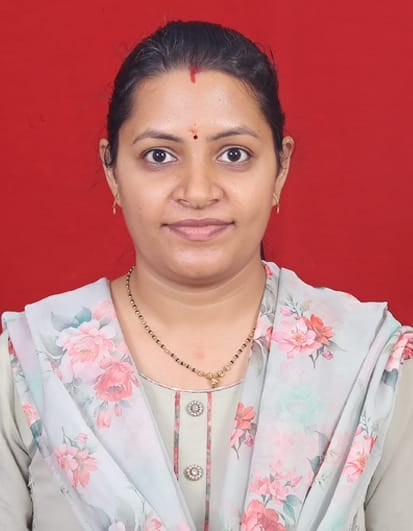
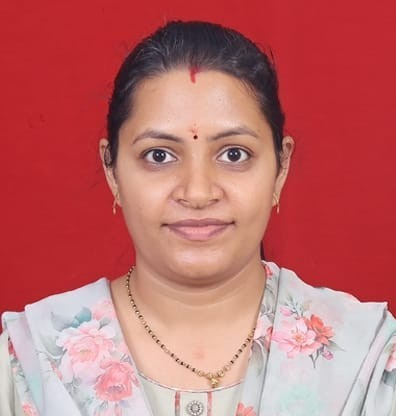
a

diff --git a/HTML/team_members.html b/HTML/team_members.html
@@ -146,37 +146,7 @@
                     <i class="fab fa-linkedin-in"></i>
                 </a>
               </div>
-        <div class="team-member">
-          <div class="member-img"><img src="../Zulqarnain Ahmed.png" alt="Zulqarnain Ahmed"></div>
-          <div class="member-name">Zulqarnain Ahmed</div>
-          <div class="member-role" style="background-color:  rgb(255, 207, 64); color: black;font-weight: 450;">Research Intern</div>
-          <div class="member-contribution">
-            <ul>
-              <li>Machine Learning Models</li>
-              <li>Edge AI Optimization</li>
-              <li>Algorithm Development</li>
-            </ul>
-          </div>
-          <a href="https://www.linkedin.com/in/zulqarnain-ahmed/" target="_blank" rel="noopener noreferrer" class="member-linkedin" aria-label="Zulqarnain Ahmed on LinkedIn">
-              <i class="fab fa-linkedin-in"></i>
-          </a>
-        </div>
-
-        <div class="team-member">
-          <div class="member-img"><img src="../Jaynil Panjwani.png" alt="Jaynil Panjwani"></div>
-          <div class="member-name">Jaynil Panjwani</div>
-          <div class="member-role" style="background-color:  rgb(255, 207, 64); color: black;font-weight: 450;">Research Intern</div>
-          <div class="member-contribution">
-            <ul>
-              <li>IoT Sensor Networks</li>
-              <li>Data Analytics</li>
-              <li>Prototype Development</li>
-            </ul>
-          </div>
-          <a href="https://www.linkedin.com/in/jaynil-panjwani/" target="_blank" rel="noopener noreferrer" class="member-linkedin" aria-label="Jaynil Panjwani on LinkedIn">
-              <i class="fab fa-linkedin-in"></i>
-          </a>
-        </div>
+        
 
         <div class="team-member">
           <div class="member-img"><img src="../Shreeraj.png" alt="Shreeraj Mummidivarapu"></div>
@@ -293,6 +263,37 @@
             </ul>
           </div>
           <a href="https://www.linkedin.com/in/rupalin-nanda-b36b2084/" target="_blank" rel="noopener noreferrer" class="member-linkedin" aria-label="Rupalin Nanda on LinkedIn">
+              <i class="fab fa-linkedin-in"></i>
+          </a>
+        </div>
+        <div class="team-member">
+          <div class="member-img"><img src="../Zulqarnain Ahmed.png" alt="Zulqarnain Ahmed"></div>
+          <div class="member-name">Zulqarnain Ahmed</div>
+          <div class="member-role" style="background-color:  rgb(255, 207, 64); color: black;font-weight: 450;">Research Intern</div>
+          <div class="member-contribution">
+            <ul>
+              <li>Machine Learning Models</li>
+              <li>Edge AI Optimization</li>
+              <li>Algorithm Development</li>
+            </ul>
+          </div>
+          <a href="https://www.linkedin.com/in/zulqarnain-ahmed/" target="_blank" rel="noopener noreferrer" class="member-linkedin" aria-label="Zulqarnain Ahmed on LinkedIn">
+              <i class="fab fa-linkedin-in"></i>
+          </a>
+        </div>
+
+        <div class="team-member">
+          <div class="member-img"><img src="../Jaynil Panjwani.png" alt="Jaynil Panjwani"></div>
+          <div class="member-name">Jaynil Panjwani</div>
+          <div class="member-role" style="background-color:  rgb(255, 207, 64); color: black;font-weight: 450;">Research Intern</div>
+          <div class="member-contribution">
+            <ul>
+              <li>IoT Sensor Networks</li>
+              <li>Data Analytics</li>
+              <li>Prototype Development</li>
+            </ul>
+          </div>
+          <a href="https://www.linkedin.com/in/jaynil-panjwani/" target="_blank" rel="noopener noreferrer" class="member-linkedin" aria-label="Jaynil Panjwani on LinkedIn">
               <i class="fab fa-linkedin-in"></i>
           </a>
         </div>